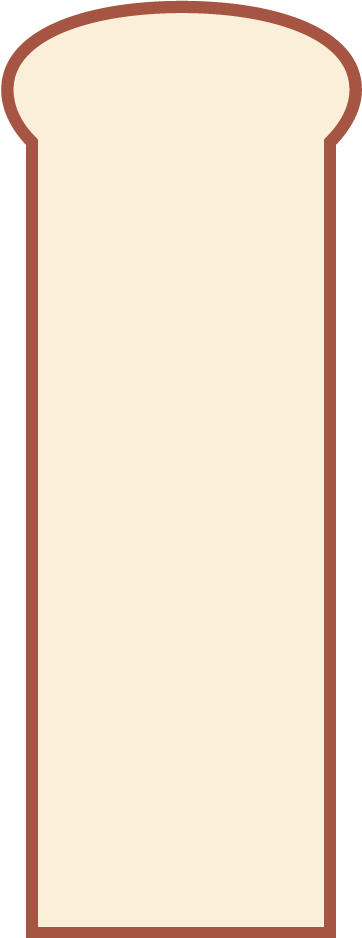
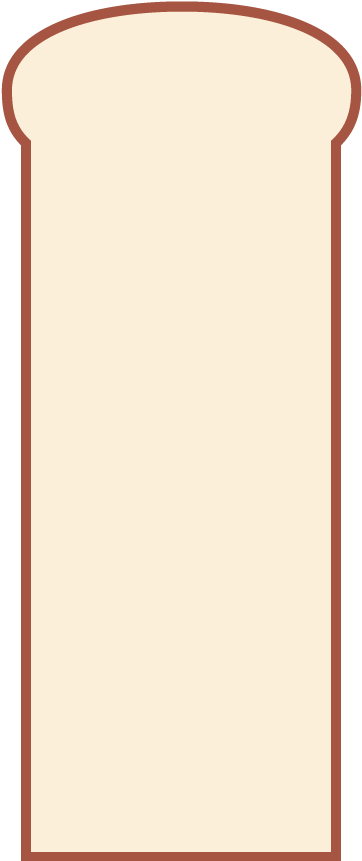
thanks daisy

diff --git a/index.html b/index.html
@@ -1,52 +1,10 @@
 <!DOCTYPE html>
 <html lang="en">
-
 <head>
     <meta charset="UTF-8">
     <meta http-equiv="X-UA-Compatible" content="IE=edge">
     <meta name="viewport" content="width=device-width, initial-scale=1.0">
     <title>2023년 버킷리스트</title>
-    <style>
-        @import url('https://fonts.googleapis.com/css2?family=Noto+Sans+KR:wght@400;500;700;900&display=swap');
-
-        * {
-            font-family: 'Noto Sans KR', sans-serif;
-        }
-
-        .title {
-            color: rgb(194, 113, 81);
-            /* background-color: rgb(255, 107, 188); 
-            padding: 4px 14px;
-            border-radius: 8px;*/
-            font-size: 60px;
-            font-weight: 800;
-            position: relative;
-            top: -15px;
-           
-
-        }
-
-        .bg {
-            background-image: url("sandwich/bread.png");
-            background-repeat: no-repeat;
-            background-position: center -5%; 
-            background-color: rgb(255, 255, 255);
-        }
-
-        .msg {
-            font-size: 22px;
-            font-weight: 800;
-        }
-
-        .bucket {
-            width: 120px;
-            height: 120px;
-        }
-        
-        .row {
-            width: 360px;
-        }
-    </style>
     <link rel="stylesheet" type="text/css" href="custom.css">
 </head>
 
@@ -54,7 +12,8 @@
     <h1 class="title">⭑2023⭑</h1>
     <p class="msg">BUCKET SANDWICH</p>
     <div class="row flex-row wrap">
-        <div class="bucket img1 center done">코딩 아무거나 배워보기</div>
+        <div class="bucket img1 center" id="bucket1">코딩 아무거나 배워보기</div>
+        <div class="bucket img1 center done" id="bucket1d">코딩 아무거나 배워보기</div>
         <div class="bucket img2 center">운동 4개월 유지</div>
         <div class="bucket img3 center">영어회화 수업듣기</div>
         <div class="bucket img4 center">책 5권 읽기</div>
@@ -64,6 +23,9 @@
         <div class="bucket img8 center">청약통장 만들기</div>
     </div>
 
+    <script>
+        document.getElementById('bucket1').style.display = 'none';
+        // document.getElementById('bucket1d').style.display = 'none';
+    </script>
 </body>
-
 </html>

diff --git a/custom.css b/custom.css
@@ -1,11 +1,42 @@
-/* 강의 중 들어갈 코드 */
+/* 사랑해 - 대섹백 */
+@import url('https://fonts.googleapis.com/css2?family=Noto+Sans+KR:wght@400;500;700;900&display=swap');
+
+* {
+    font-family: 'Noto Sans KR', sans-serif;
+}
 html {
     display: flex;
     flex-direction: column;
     align-items: center;
     justify-content: center;
 }
+.bg {
+    background-image: url("sandwich/bread2.png");
+    background-repeat: no-repeat;
+    background-position: center -5%; 
+    background-color: rgb(255, 255, 255);
+}
+.title {
+    color: rgb(194, 113, 81);
+    font-size: 60px;
+    font-weight: 800;
+    position: relative;
+    top: -15px;
+}
+.msg {
+    margin: -60px 0 20px;
+    color: rgba(226, 161, 100, 0.863);
+    font-size: 22px;
+    font-weight: 800;
+    position: relative;
+    top: 0px;
+}
+.row {
+    width: 360px;
+}
 .bucket {
+    width: 120px;
+    height: 120px;
     background-size: cover;
     background-position: center;
     margin: 8px;
@@ -17,6 +48,7 @@ html {
     text-align: center;
     word-break: keep-all;
 }
+
 .img1 {
     background-image: url("sandwich/cheese1.png");
     color: rgb(139, 92, 92);
@@ -25,7 +57,6 @@ html {
     background-image: url("sandwich/ham.png");
     color: rgb(255, 255, 255);
     font-weight: 700;
-    /* -webkit-text-stroke: 0.6px white; */
 }
 .img3 {
     background-image: url("sandwich/onion.png");
@@ -52,17 +83,20 @@ html {
     color: rgb(139, 92, 92);
 }
 
+.center {
+    display: flex;
+    flex-direction: column;
+    align-items: center;
+    justify-content: center;
+}
 .flex-row {
     display: flex;
     flex-direction: row;
     align-items: center;
     justify-content: center;
 }
-.center {
-    display: flex;
-    flex-direction: column;
-    align-items: center;
-    justify-content: center;
+.wrap {
+    flex-wrap: wrap;
 }
 .done::after {    
     content: "";
@@ -74,13 +108,4 @@ html {
     background-position: center;
     position: absolute;
     top: -5%;
-}
-.wrap {
-    flex-wrap: wrap;
-}
-.msg {
-    margin: -60px 0 20px;
-    color: rgba(226, 161, 100, 0.863);
-    position: relative;
-    top: 0px
 }
